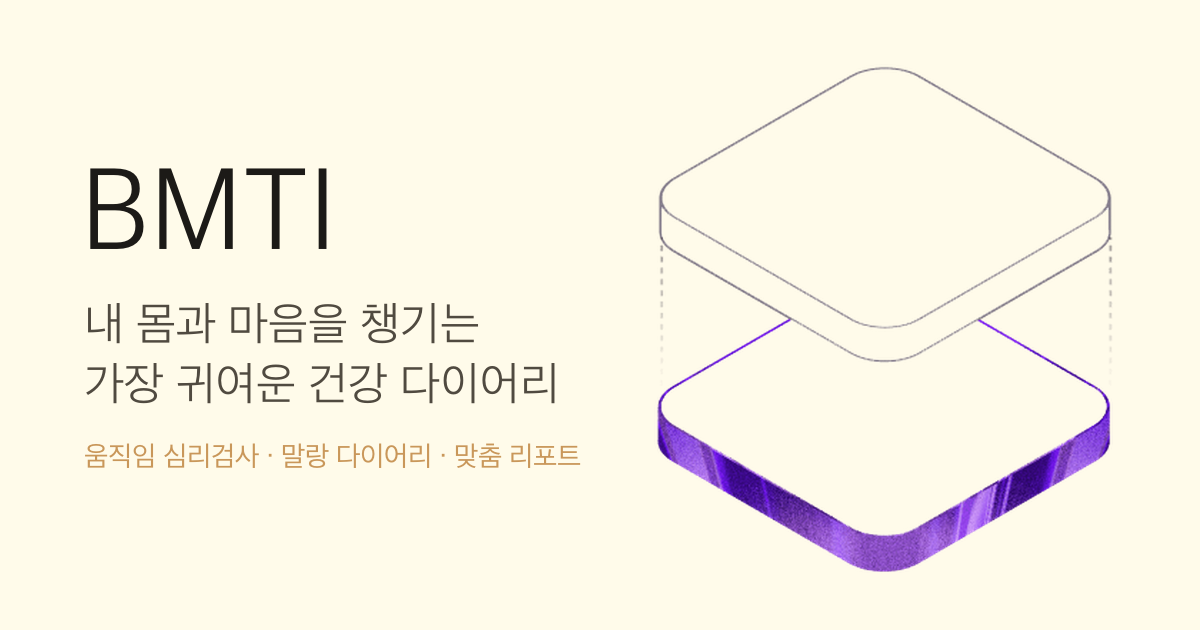
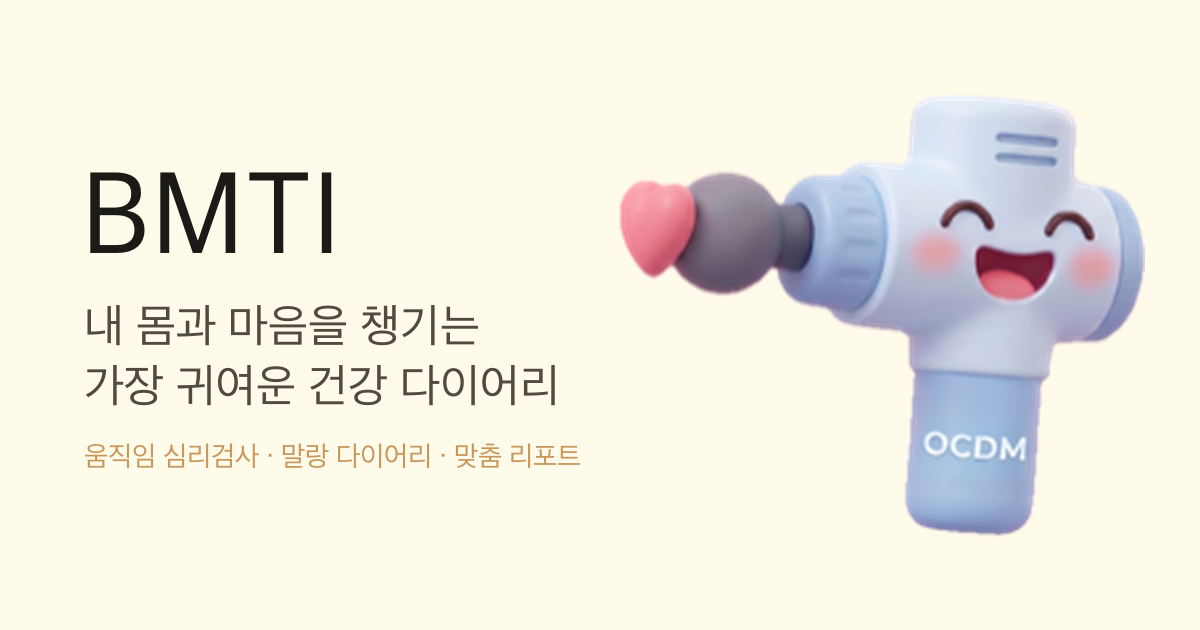
fix(onboarding/calendar/og): 안내점 타깃화 + '?'·전환 버튼 현재 달 고정 + OG 이미지 교체
- 온보딩 안내점: 먼지처럼 보이던 흐린 그라데이션 → 골드 타깃 점(가운데 점 + 잔잔히 퍼지는 링)으로 '여기 누르세요' 느낌 강화
- 월·주 캘린더의 '?'·전환 버튼을 현재 달/주 카드 안에 sticky로 붙여 그 달이 보이는 동안 상단 고정
- OG 미리보기 이미지에 'OCDM 누끼' 캐릭터 반영

diff --git a/src/components/DiaryCalendar.jsx b/src/components/DiaryCalendar.jsx
@@ -158,15 +158,8 @@ export default function DiaryCalendar({ onPickMood, onEditDay, bmtiCode, isLogge
   return (
     <div style={{ position: "fixed", inset: 0, background: "#FFFFFF", fontFamily: "'Pretendard',-apple-system,sans-serif", color: C.ink }}>
 
-      {/* 항상 떠 있는 CTA — 도움말(좌) / 월·주 보기 전환(우) */}
-      <div style={{ position: "fixed", top: 64, left: "50%", transform: "translateX(-50%)", width: "100%", maxWidth: 460, padding: "0 16px", display: "flex", justifyContent: "space-between", zIndex: 36, pointerEvents: "none" }}>
-        <button onClick={() => setShowHelp(true)} aria-label="말랑 다이어리 도움말"
-          style={{ pointerEvents: "auto", width: 38, height: 38, borderRadius: "50%", border: "none", background: "rgba(255,255,255,0.92)", backdropFilter: "blur(6px)", WebkitBackdropFilter: "blur(6px)", boxShadow: "0 2px 10px rgba(0,0,0,0.10)", color: C.sub, fontSize: 15, fontWeight: 800, cursor: "pointer", display: "flex", alignItems: "center", justifyContent: "center" }}>?</button>
-        <button onClick={() => setView(view === "month" ? "week" : "month")} aria-label={view === "month" ? "주간 캘린더 보기" : "월간 캘린더 보기"}
-          style={{ pointerEvents: "auto", width: 38, height: 38, borderRadius: "50%", border: "none", background: "rgba(255,255,255,0.92)", backdropFilter: "blur(6px)", WebkitBackdropFilter: "blur(6px)", boxShadow: "0 2px 10px rgba(0,0,0,0.10)", color: t.accentDeep, cursor: "pointer", display: "flex", alignItems: "center", justifyContent: "center" }}>
-          {view === "month" ? <IconWeek /> : <IconMonth />}
-        </button>
-      </div>
+      {/* '?' / 월·주 전환 버튼은 각 캘린더의 '현재 달·현재 주' 카드 안에 붙어(sticky) 함께 이동한다.
+         (아래 MonthSection·WeekSection의 CalControls 참고) */}
 
       {/* 떠 있는 상·하단 네비 버튼 높이에 맞춘 위/아래 블러 페이드 */}
       <div style={{ position: "fixed", top: 0, left: 0, right: 0, height: 64, background: "linear-gradient(#FFFFFF, rgba(255,255,255,0))", backdropFilter: "blur(3px)", WebkitBackdropFilter: "blur(3px)", zIndex: 34, pointerEvents: "none" }} />
@@ -178,10 +171,12 @@ export default function DiaryCalendar({ onPickMood, onEditDay, bmtiCode, isLogge
           {loading === "top" && <CalLoader />}
           {view === "month"
             ? months.map(m => (
-                <MonthSection key={toISO(m)} monthDate={m} isCurrent={sameMonth(m, today)} todayStr={todayStr} today={today} history={history} t={t} isM={isM} onDayPreview={setPreviewDay} onEditDay={onEditDay} />
+                <MonthSection key={toISO(m)} monthDate={m} isCurrent={sameMonth(m, today)} todayStr={todayStr} today={today} history={history} t={t} isM={isM} onDayPreview={setPreviewDay} onEditDay={onEditDay}
+                  calView={view} onHelp={() => setShowHelp(true)} onToggleView={() => setView(view === "month" ? "week" : "month")} />
               ))
             : weeks.map(w => (
-                <WeekSection key={toISO(w)} weekStart={w} isCurrent={w.getTime() === startOfWeek(today).getTime()} todayStr={todayStr} today={today} history={history} t={t} isM={isM} buildEntrySummary={buildEntrySummary} onEditDay={onEditDay} />
+                <WeekSection key={toISO(w)} weekStart={w} isCurrent={w.getTime() === startOfWeek(today).getTime()} todayStr={todayStr} today={today} history={history} t={t} isM={isM} buildEntrySummary={buildEntrySummary} onEditDay={onEditDay}
+                  calView={view} onHelp={() => setShowHelp(true)} onToggleView={() => setView(view === "month" ? "week" : "month")} />
               ))}
           {loading === "bottom" && <CalLoader />}
           {/* 말랑 다이어리 개선 의견 받기 */}
@@ -344,7 +339,22 @@ const IconMonth = () => (
 );
 
 // ── 월간 섹션 — 오늘의 달만 좌우 전체 노랑, 나머진 흰색 ──
-function MonthSection({ monthDate, isCurrent, todayStr, today, history, t, isM, onDayPreview, onEditDay }) {
+// 현재 달·주 카드 안에 붙는 '?'/전환 버튼 — sticky로 그 카드가 보이는 동안 상단에 머문다.
+function CalControls({ calView, onHelp, onToggleView, t }) {
+  const btn = { pointerEvents: "auto", width: 38, height: 38, borderRadius: "50%", border: "none", background: "rgba(255,255,255,0.92)", backdropFilter: "blur(6px)", WebkitBackdropFilter: "blur(6px)", boxShadow: "0 2px 10px rgba(0,0,0,0.10)", cursor: "pointer", display: "flex", alignItems: "center", justifyContent: "center" };
+  return (
+    <div style={{ position: "sticky", top: 72, zIndex: 36, height: 0, pointerEvents: "none" }}>
+      <div style={{ display: "flex", justifyContent: "space-between" }}>
+        <button onClick={onHelp} aria-label="말랑 다이어리 도움말" style={{ ...btn, color: C.sub, fontSize: 15, fontWeight: 800 }}>?</button>
+        <button onClick={onToggleView} aria-label={calView === "month" ? "주간 캘린더 보기" : "월간 캘린더 보기"} style={{ ...btn, color: t.accentDeep }}>
+          {calView === "month" ? <IconWeek /> : <IconMonth />}
+        </button>
+      </div>
+    </div>
+  );
+}
+
+function MonthSection({ monthDate, isCurrent, todayStr, today, history, t, isM, onDayPreview, onEditDay, calView, onHelp, onToggleView }) {
   const year = monthDate.getFullYear(), month = monthDate.getMonth();
   const monthKey = `${year}-${pad(month + 1)}`;
   const count = history.filter(e => e.date.startsWith(monthKey)).length;
@@ -353,7 +363,8 @@ function MonthSection({ monthDate, isCurrent, todayStr, today, history, t, isM, 
   const cells = [...Array(firstWeekday).fill(null), ...Array.from({ length: daysInMonth }, (_, i) => i + 1)];
   return (
     <div data-current={isCurrent ? "true" : undefined} style={{ background: isCurrent ? YELLOW_BG : "#fff", width: "100%" }}>
-      <div style={{ maxWidth: 460, margin: "0 auto", padding: "26px 18px 32px" }}>
+      <div style={{ maxWidth: 460, margin: "0 auto", padding: "26px 18px 32px", position: "relative" }}>
+        {isCurrent && <CalControls calView={calView} onHelp={onHelp} onToggleView={onToggleView} t={t} />}
         <div style={{ textAlign: "center", marginBottom: 18 }}>
           <h1 style={{ fontSize: 24, fontWeight: 800, margin: 0, letterSpacing: "-0.02em", color: C.ink }}>{year}년 {month + 1}월</h1>
           <p style={{ fontSize: 13, color: C.sub, margin: "7px 0 0" }}>{count > 0 ? getRecordMessage(count, isM) : "아직 기록이 없어요"}</p>
@@ -405,7 +416,7 @@ function MonthSection({ monthDate, isCurrent, todayStr, today, history, t, isM, 
 }
 
 // ── 주간 섹션 — 오늘의 주만 좌우 전체 노랑, 나머진 흰색 ──
-function WeekSection({ weekStart, isCurrent, todayStr, today, history, t, isM, buildEntrySummary, onEditDay }) {
+function WeekSection({ weekStart, isCurrent, todayStr, today, history, t, isM, buildEntrySummary, onEditDay, calView, onHelp, onToggleView }) {
   const days = Array.from({ length: 7 }, (_, i) => { const x = new Date(weekStart); x.setDate(x.getDate() + i); return x; });
   const end = days[6];
   const title = weekStart.getMonth() === end.getMonth()
@@ -414,7 +425,8 @@ function WeekSection({ weekStart, isCurrent, todayStr, today, history, t, isM, b
   const count = days.filter(d => history.some(e => e.date === toISO(d))).length;
   return (
     <div data-current={isCurrent ? "true" : undefined} style={{ background: isCurrent ? YELLOW_BG : "#fff", width: "100%" }}>
-      <div style={{ maxWidth: 460, margin: "0 auto", padding: "26px 18px 30px" }}>
+      <div style={{ maxWidth: 460, margin: "0 auto", padding: "26px 18px 30px", position: "relative" }}>
+        {isCurrent && <CalControls calView={calView} onHelp={onHelp} onToggleView={onToggleView} t={t} />}
         <div style={{ textAlign: "center", marginBottom: 18 }}>
           <h1 style={{ fontSize: 21, fontWeight: 800, margin: 0, letterSpacing: "-0.02em", color: C.ink }}>{title}</h1>
           <p style={{ fontSize: 13, color: C.sub, margin: "7px 0 0" }}>{count > 0 ? getRecordMessage(count, isM) : "아직 기록이 없어요"}</p>

diff --git a/src/components/BodySelector3D.jsx b/src/components/BodySelector3D.jsx
@@ -47,15 +47,15 @@ export default function BodySelector3D({ gender, value, onChange }) {
           const on = selectedParts.includes(z.part);
           return (
             <button key={`${view}-${i}`} data-hotspot={z.part} onClick={() => togglePart(z.part)}
-              className={on ? undefined : "body-guide-dot"}
               style={{ position: "absolute", left: `${z.x}%`, top: `${z.y}%`, width: `${z.w}%`, height: `${z.h}%`,
                 borderRadius: 12, cursor: "pointer", padding: 0,
-                // 선택 가능한 부위엔 멀어질수록 옅어지는 골드 원형 그라데이션으로 위치 안내(천천히 깜빡)
-                background: on ? "rgba(201,151,90,0.30)" : "radial-gradient(circle 13px at 50% 50%, rgba(201,151,90,0.55) 0%, rgba(201,151,90,0.24) 50%, rgba(201,151,90,0) 100%)",
+                background: on ? "rgba(201,151,90,0.30)" : "transparent",
                 border: on ? `2px solid ${GOLD}` : "2px solid transparent",
                 display: "flex", alignItems: "center", justifyContent: "center", transition: "background .12s" }}>
-              {on && (
+              {on ? (
                 <span style={{ fontSize: 9, fontWeight: 800, color: GOLD, background: "#fff", borderRadius: 7, padding: "1px 4px", boxShadow: "0 1px 3px rgba(0,0,0,.12)" }}>{z.part}</span>
+              ) : (
+                <span className="body-dot" />
               )}
             </button>
           );
@@ -67,16 +67,22 @@ export default function BodySelector3D({ gender, value, onChange }) {
 
   return (
     <div style={{ width: "100%" }}>
-      {/* 안내점: 약 3초간 천천히 보였다가 사라지고, 5초쯤 뒤 다시 나타나는 8초 주기 */}
+      {/* 안내점: '여기를 누르세요' 느낌의 또렷한 타깃 점 — 가운데 골드 점 + 잔잔히 퍼지는 링 */}
       <style>{`
-        @keyframes bodyGuidePulse {
-          0% { opacity: 0; }
-          8% { opacity: 1; }
-          37% { opacity: 1; }
-          46% { opacity: 0; }
-          100% { opacity: 0; }
+        @keyframes bodyDotRing {
+          0% { transform: scale(0.7); opacity: 0.55; }
+          70%, 100% { transform: scale(1.9); opacity: 0; }
         }
-        .body-guide-dot { animation: bodyGuidePulse 8s ease-in-out infinite; }
+        @keyframes bodyDotCore {
+          0%, 100% { transform: scale(1); opacity: 0.9; }
+          50% { transform: scale(1.15); opacity: 1; }
+        }
+        .body-dot { position: relative; width: 15px; height: 15px; display: block; }
+        .body-dot::before { content: ""; position: absolute; inset: 0; border-radius: 50%;
+          background: radial-gradient(circle, #D8A24E 0%, #C9975A 70%); box-shadow: 0 1px 3px rgba(140,96,40,0.4);
+          animation: bodyDotCore 2.2s ease-in-out infinite; }
+        .body-dot::after { content: ""; position: absolute; inset: 0; border-radius: 50%;
+          border: 2px solid #C9975A; animation: bodyDotRing 2.2s ease-out infinite; }
       `}</style>
       {/* 앞모습(좌) · 뒷모습(우) 나란히 */}
       <div style={{ display: "flex", gap: 8, alignItems: "flex-start" }}>
